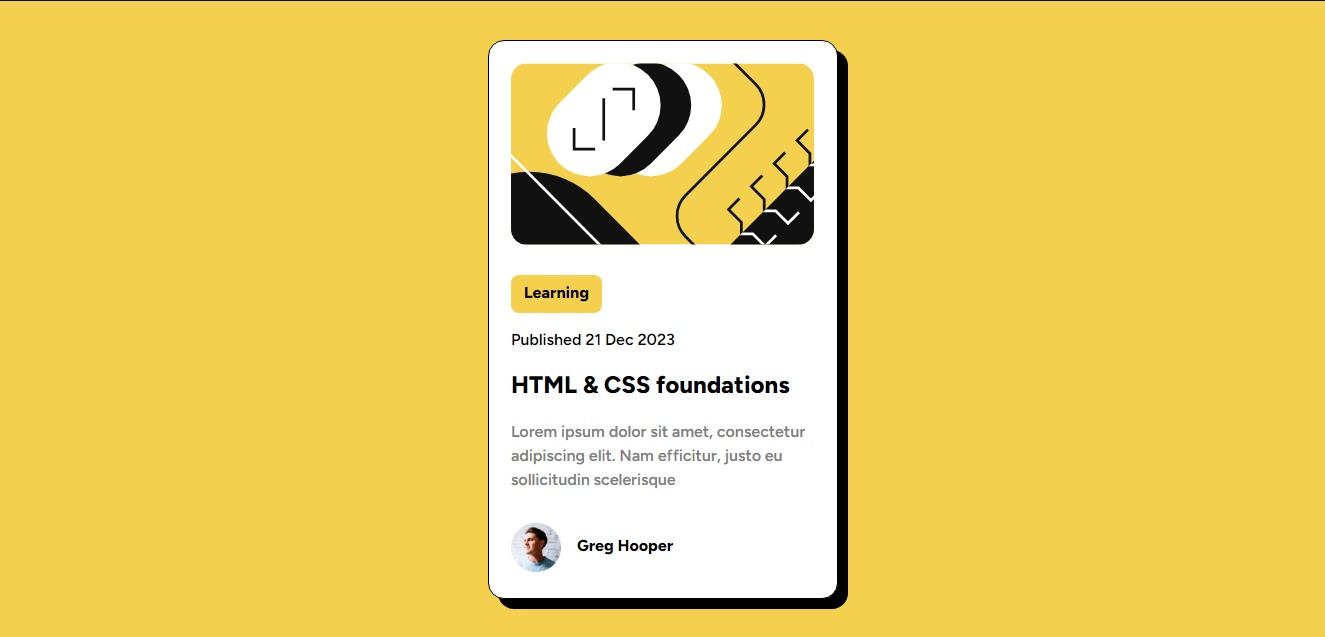
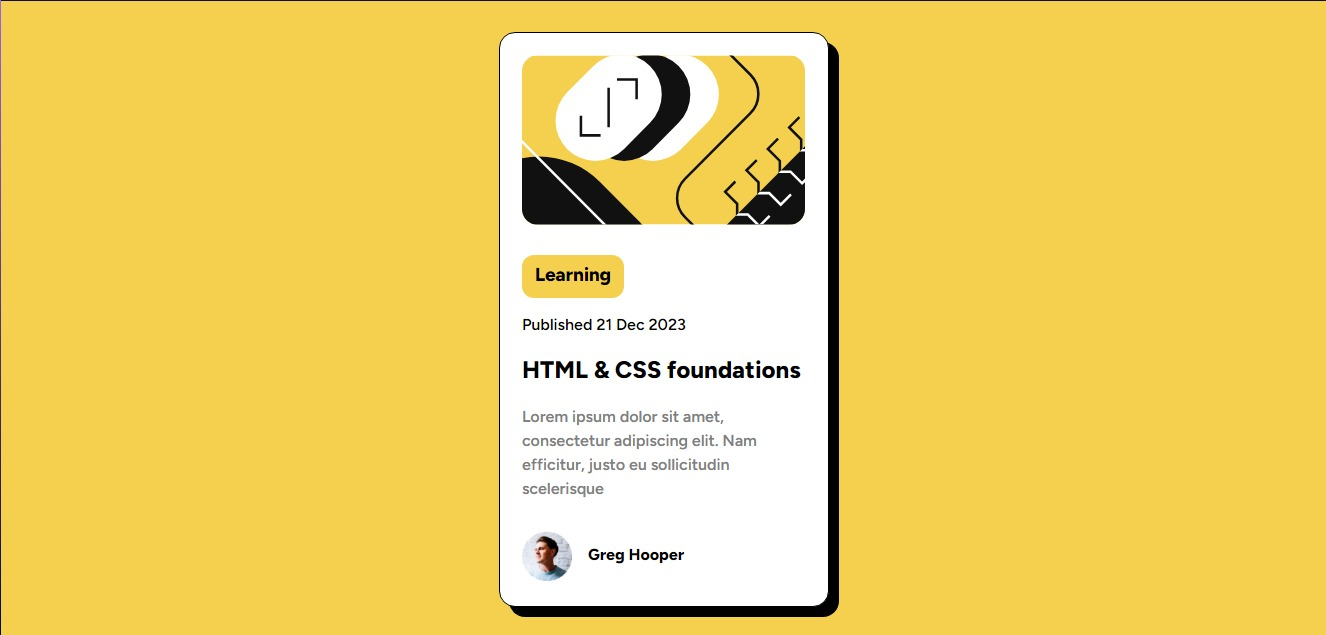
Some adjusts

Changed region(s): [[0.3404, 0.0299, 0.6498, 0.9874]]

diff --git a/newbie/blog-preview-card/index.html b/newbie/blog-preview-card/index.html
@@ -13,7 +13,7 @@
         <figure class="mb">
           <img src="images/illustration-article.svg" alt="">
         </figure>
-        <h4 class="category fw-800 mb-half"><a href="">Learning</a></h4>
+        <h3 class="category fw-800 mb-half"><a href="">Learning</a></h3>
         <p class="mb-half">
           Published <time datetime="2023-12-21T11:21:00+02:00">21 Dec 2023</time>
         </p>

diff --git a/newbie/blog-preview-card/main.css b/newbie/blog-preview-card/main.css
@@ -78,7 +78,7 @@ article {
   padding: 1.4em 1.4rem 1.6rem;
   width: 85%;
   border: 1px solid #000;
-  width: 350px;
+  width: 330px;
   box-shadow: 10px 10px;
 }
 
@@ -104,7 +104,7 @@ border-radius: var(--border-radius);
 .category{
   padding: .4rem .8rem ;
   background-color: var(--yellow-color);
-  border-radius: 8px;
+  border-radius: 12px;
 }
 
 .excerpt{
